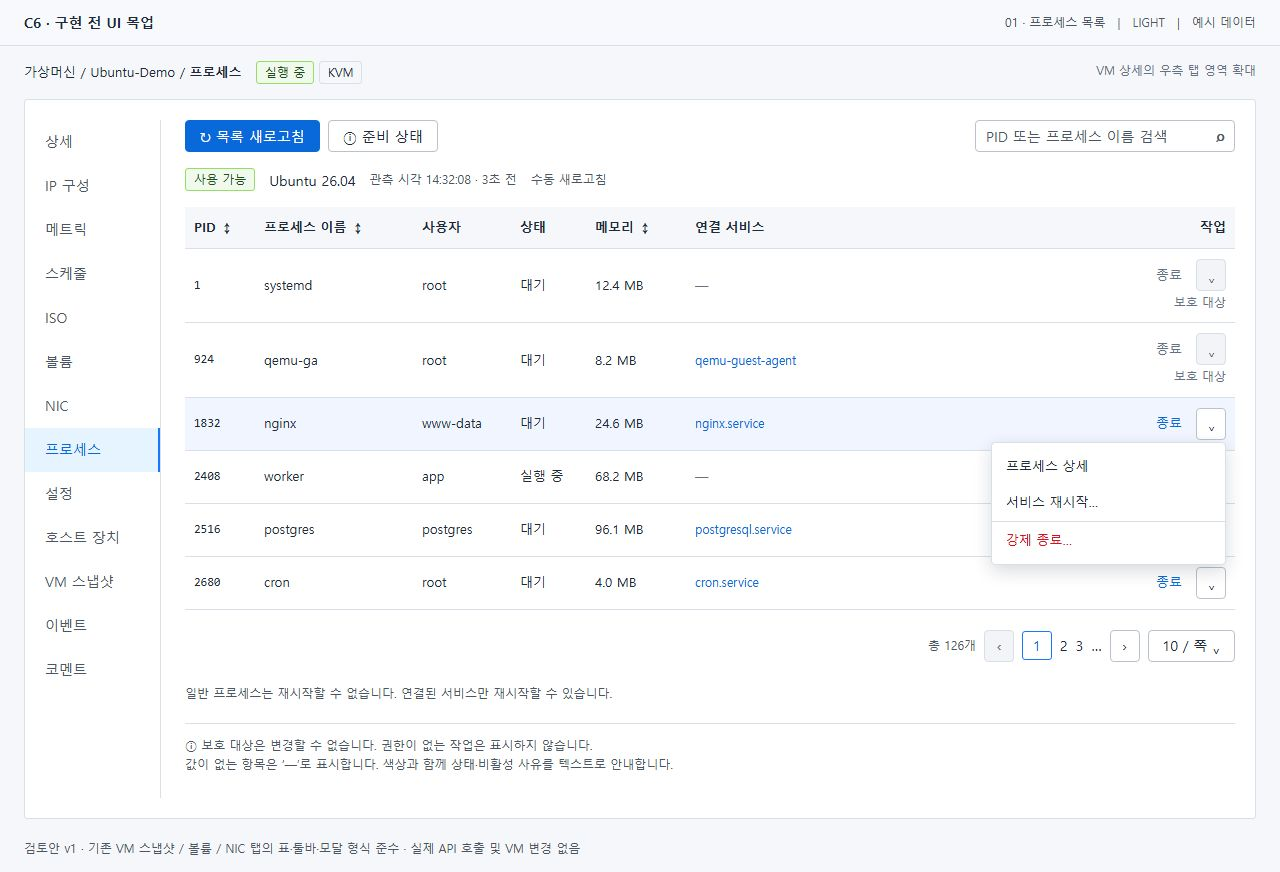
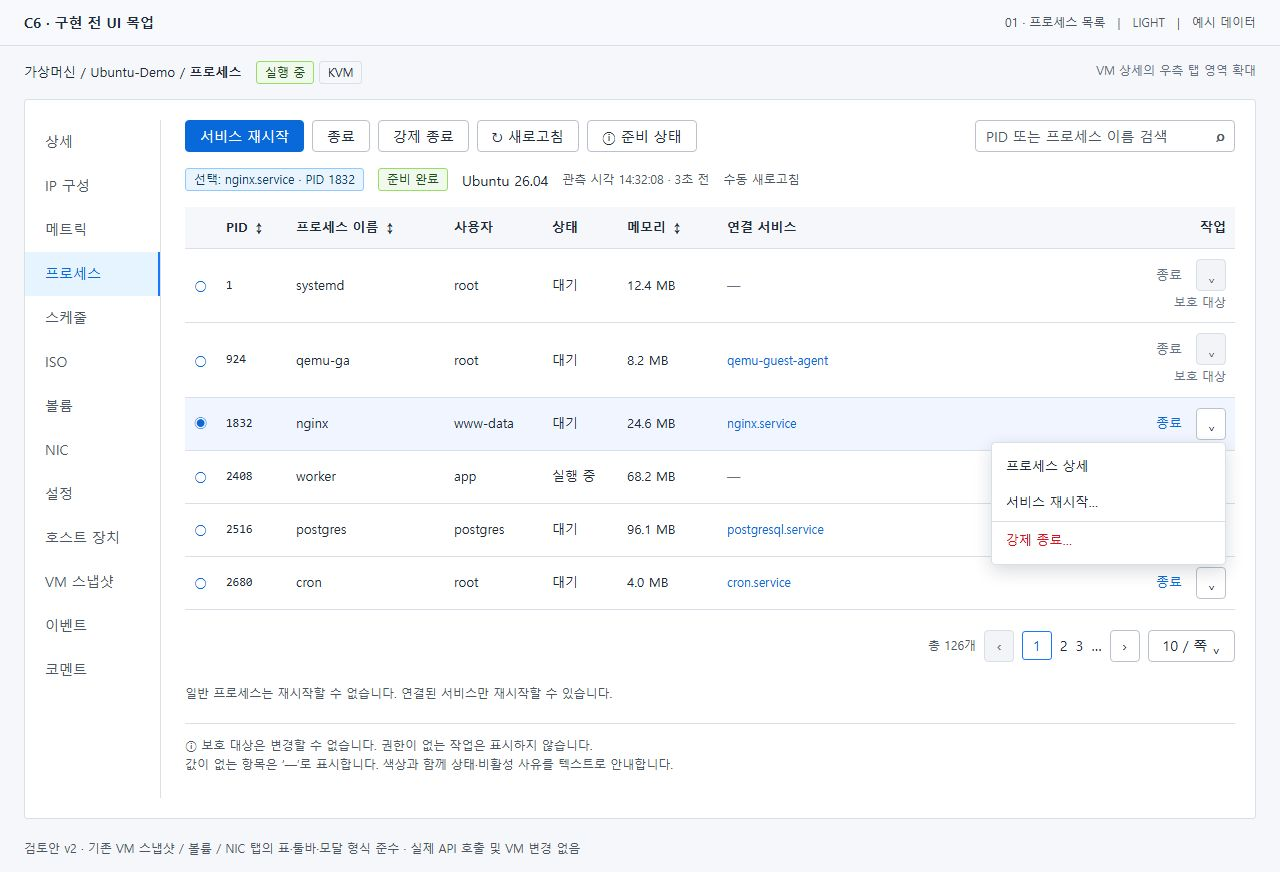
docs: 프로세스 목업의 핵심 액션 우선 배치와 탭 순서 반영

diff --git a/docs/design/vm-process-mockup/README.ko.md b/docs/design/vm-process-mockup/README.ko.md
@@ -17,7 +17,7 @@ specific language governing permissions and limitations
 under the License.
  -->
 
-# C6 프로세스 탭 — 구현 전 UI 목업 v1
+# C6 프로세스 탭 — 구현 전 UI 목업 v2
 
 검토 이슈: https://github.com/ablecloud-team/ablestack-cloud/issues/1176
 
@@ -35,7 +35,7 @@ under the License.
 - `ui/src/style/theme/tokens.less`: light/dark surface·text·border·상태 의미 색상.
 - 테스트 관리 UI의 현재 VM 상세/스냅샷 탭도 읽기 전용으로 확인했습니다.
 
-목록 새로고침을 이 탭의 주 버튼으로 두고 준비 상태 확인, 검색을 그 뒤에 배치했습니다. 일반 프로세스 종료는 행의 주 작업, 서비스 재시작/강제 종료는 우측 메뉴입니다. 일괄 종료나 임의 명령 실행은 제안하지 않습니다.
+맨 앞 파란 버튼은 선택한 대상의 핵심 작업입니다. 연결 서비스가 있으면 서비스 재시작, 일반 프로세스와 Windows 예시에서는 강제 종료를 배치했습니다. 단일 행 선택과 선택 대상 표시를 추가했으며 새로고침/준비 상태 확인은 일반 보조 버튼입니다. 강제 종료는 별도 확인창과 기본 해제 동의를 거칩니다. 탭 순서는 상세 → IP 구성 → 메트릭 → 프로세스이며 나머지는 기존 순서를 유지합니다. 일괄 종료나 임의 명령 실행은 제안하지 않습니다.
 
 ## 다크모드 가독성
 
@@ -155,3 +155,7 @@ under the License.
 `&capture=1`은 화면 전환용 링크를 숨깁니다.
 
 검토 이후 #1176 구현에서 실제 Ant Design 컴포넌트와 번역/API를 연결합니다. 이번 산출물만으로 #1176 완료 처리하지 않습니다.
+
+## v2 변경
+
+사용자 검토 반영: 선두 파란 버튼을 핵심 변경 액션으로 전환하고 프로세스 탭을 네 번째로 이동했습니다. 준비 미완료/Global 비활성/UNKNOWN/만료 상태에서는 핵심 액션을 차단하며 보조 확인 기능을 파란 주 버튼으로 승격하지 않습니다.
